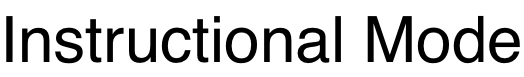
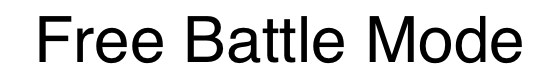
Added fonts indicating which screen or page are we in

diff --git a/game/core/src/com/mygdx/dungeoncoder/screens/MainMenuScreen.java b/game/core/src/com/mygdx/dungeoncoder/screens/MainMenuScreen.java
@@ -11,16 +11,16 @@ import com.badlogic.gdx.graphics.g2d.TextureRegion;
 import com.badlogic.gdx.scenes.scene2d.Actor;
 import com.badlogic.gdx.scenes.scene2d.InputEvent;
 import com.badlogic.gdx.scenes.scene2d.Stage;
-import com.badlogic.gdx.scenes.scene2d.ui.Image;
-import com.badlogic.gdx.scenes.scene2d.ui.Label;
-import com.badlogic.gdx.scenes.scene2d.ui.Skin;
-import com.badlogic.gdx.scenes.scene2d.ui.TextButton;
+import com.badlogic.gdx.scenes.scene2d.ui.*;
 import com.badlogic.gdx.scenes.scene2d.utils.ClickListener;
+import com.badlogic.gdx.scenes.scene2d.utils.ChangeListener;
 import com.badlogic.gdx.scenes.scene2d.utils.Drawable;
 import com.badlogic.gdx.scenes.scene2d.utils.TextureRegionDrawable;
 import com.badlogic.gdx.utils.Scaling;
 import com.badlogic.gdx.utils.viewport.ScalingViewport;
 import com.mygdx.dungeoncoder.DungeonCoder;
+
+import javax.swing.event.ChangeEvent;
 
 import static com.mygdx.dungeoncoder.values.DefaultValues.VIRTUAL_HEIGHT;
 import static com.mygdx.dungeoncoder.values.DefaultValues.VIRTUAL_WIDTH;
@@ -31,7 +31,22 @@ public class MainMenuScreen implements Screen {
     private Stage stage;
     private int mode = 0;
     private Skin backButtonSkin;
-    private boolean hover;
+
+    Texture instructionalMode_Text = new Texture(Gdx.files.internal("UIElements/instructionalmode.png"));
+    TextureRegion instructionalModeRegion_Text = new TextureRegion(instructionalMode_Text);
+    TextureRegionDrawable instructionalModeDrawable_Text = new TextureRegionDrawable(instructionalModeRegion_Text);
+    Image instructionalModeImage_Text = new Image(instructionalModeDrawable_Text);
+
+    Texture mainStoryMode_Text = new Texture(Gdx.files.internal("UIElements/mainstorymode.png"));
+    TextureRegion mainStoryModeRegion_Text = new TextureRegion(mainStoryMode_Text);
+    TextureRegionDrawable mainStoryModeDrawable_Text = new TextureRegionDrawable(mainStoryModeRegion_Text);
+    Image mainStoryModeImage_Text = new Image(mainStoryModeDrawable_Text);
+
+    Texture freeBattleMode_Text = new Texture(Gdx.files.internal("UIElements/freebattlemode.png"));
+    TextureRegion freeBattleModeRegion_Text = new TextureRegion(freeBattleMode_Text);
+    TextureRegionDrawable freeBattleModeDrawable_Text = new TextureRegionDrawable(freeBattleModeRegion_Text);
+    Image freeBattleModeImage_Text = new Image(freeBattleModeDrawable_Text);
+
 
     public MainMenuScreen(DungeonCoder g) {
         game = g;
@@ -90,22 +105,6 @@ public class MainMenuScreen implements Screen {
 
     }
 
-    private void createInstructional() {
-        Texture instructionalMode = new Texture(Gdx.files.internal("UIElements/instructional.png"));
-        TextureRegion instructionalModeRegion = new TextureRegion(instructionalMode);
-        TextureRegionDrawable instructionalModeDrawable = new TextureRegionDrawable(instructionalModeRegion);
-        Image instructionalModeImage = new Image(instructionalModeDrawable);
-        instructionalModeImage.setPosition(840,585);
-        instructionalModeImage.addListener(new ClickListener(){
-            @Override
-            public void clicked(InputEvent event, float x, float y) {
-                mode = 0;
-            }
-        });
-
-        stage.addActor(instructionalModeImage);
-    }
-
     private void instructionalMode(DungeonCoder g) {
         g.setScreen(new InstructionalMode(g));
     }
@@ -119,10 +118,34 @@ public class MainMenuScreen implements Screen {
             @Override
             public void touchUp(InputEvent e, float x, float y, int point, int button) {
                 btnBackClicked(game);
+
             }
         });
         stage.addActor(btnBack);
     }
+
+    private void createInstructional() {
+        Texture instructionalMode = new Texture(Gdx.files.internal("UIElements/instructional.png"));
+        TextureRegion instructionalModeRegion = new TextureRegion(instructionalMode);
+        TextureRegionDrawable instructionalModeDrawable = new TextureRegionDrawable(instructionalModeRegion);
+        Image instructionalModeImage = new Image(instructionalModeDrawable);
+        instructionalModeImage.setPosition(840,585);
+        instructionalModeImage.addListener(new ClickListener() {
+            @Override
+            public void clicked(InputEvent event, float x, float y) {
+                mode = 0;
+                instructionalModeImage_Text.setPosition(200, 500);
+                System.out.println("You are now in instructional mode");
+                stage.addActor(instructionalModeImage_Text);
+                instructionalModeImage_Text.setVisible(true);
+                mainStoryModeImage_Text.setVisible(false);
+                freeBattleModeImage_Text.setVisible(false);
+            }
+        });
+
+        stage.addActor(instructionalModeImage);
+    }
+
 
     private void createMainStory() {
         Texture mainStoryMode = new Texture(Gdx.files.internal("UIElements/mainStory.png"));
@@ -130,11 +153,16 @@ public class MainMenuScreen implements Screen {
         TextureRegionDrawable mainStoryModeDrawable = new TextureRegionDrawable(mainStoryModeRegion);
         Image mainStoryModeImage = new Image(mainStoryModeDrawable);
         mainStoryModeImage.setPosition(960,585);
-        mainStoryModeImage.addListener(new ClickListener(){
+        mainStoryModeImage.addListener(new ClickListener() {
             @Override
             public void clicked(InputEvent event, float x, float y) {
                 mode = 1;
+                mainStoryModeImage_Text.setPosition(200, 500);
                 System.out.println("You are now in main story mode");
+                stage.addActor(mainStoryModeImage_Text);
+                instructionalModeImage_Text.setVisible(false);
+                mainStoryModeImage_Text.setVisible(true);
+                freeBattleModeImage_Text.setVisible(false);
             }
         });
 
@@ -155,7 +183,12 @@ public class MainMenuScreen implements Screen {
             @Override
              public void clicked(InputEvent event, float x, float y) {
                 mode = 2;
+                freeBattleModeImage_Text.setPosition(200, 500);
                 System.out.println("You are now in free battle mode");
+                stage.addActor(freeBattleModeImage_Text);
+                freeBattleModeImage_Text.setVisible(true);
+                instructionalModeImage_Text.setVisible(false);
+                mainStoryModeImage_Text.setVisible(false);
             }
         });
         stage.addActor(freeBattleModeImage);
